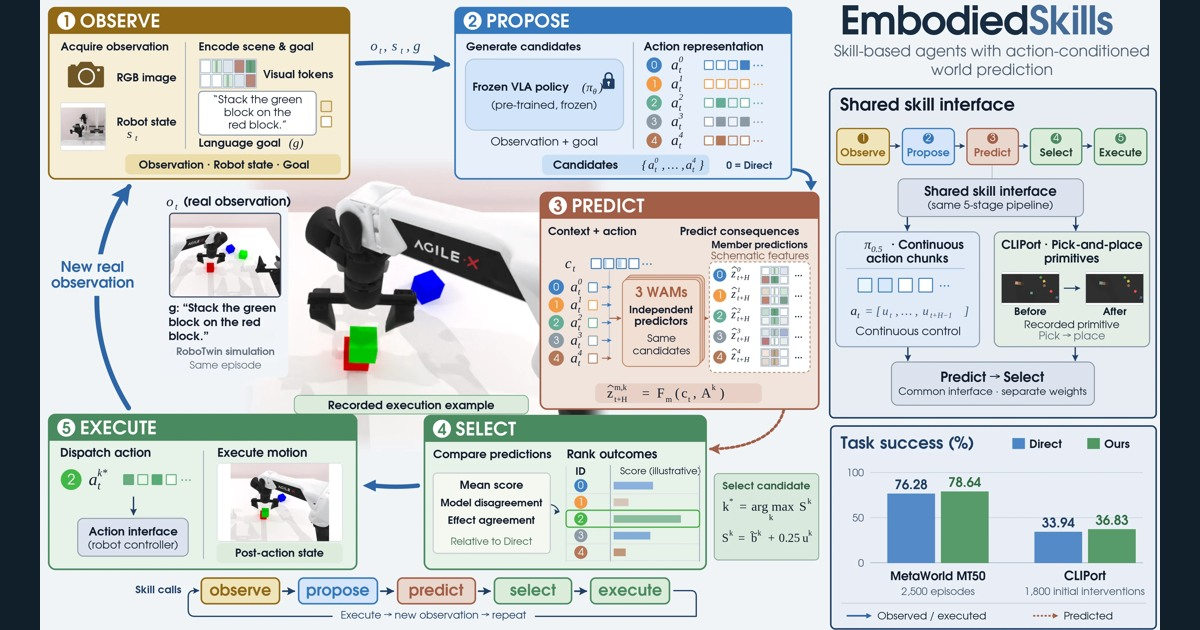
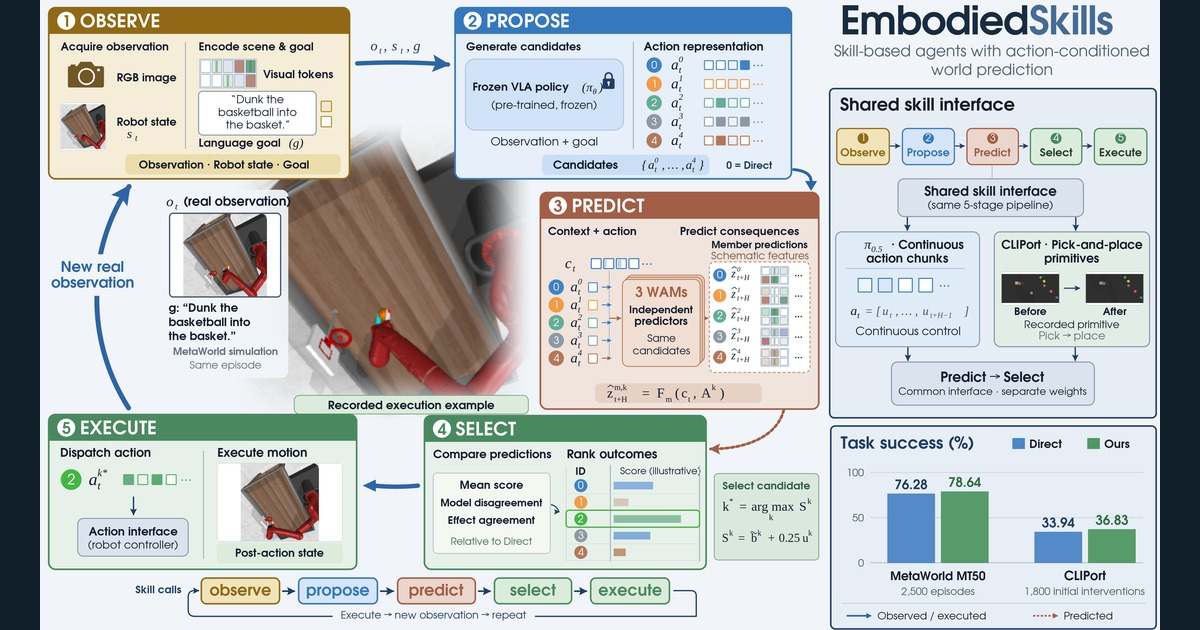
Use evaluated MetaWorld scenes in paper and website visuals

diff --git a/index.html b/index.html
@@ -9,12 +9,12 @@
   <meta property="og:description" content="World Action Model-augmented Cascaded Skills for Vision-Language-Action Agent.">
   <meta property="og:type" content="website">
   <meta property="og:url" content="https://zju4embodiedai.github.io/EmbodiedSkills/">
-  <meta property="og:image" content="https://zju4embodiedai.github.io/EmbodiedSkills/assets/social.jpg">
+  <meta property="og:image" content="https://zju4embodiedai.github.io/EmbodiedSkills/assets/social.jpg?v=20261009">
   <meta name="twitter:card" content="summary_large_image">
   <link rel="canonical" href="https://zju4embodiedai.github.io/EmbodiedSkills/">
   <link rel="icon" type="image/svg+xml" href="assets/mark.svg">
   <link rel="preload" href="assets/fonts/manrope.woff2" as="font" type="font/woff2" crossorigin>
-  <link rel="preload" href="assets/robot-hero.webp" as="image">
+  <link rel="preload" href="assets/metaworld-hero.webp" as="image">
   <link rel="stylesheet" href="style.css">
   <title>EmbodiedSkills — Anticipate. Compare. Act.</title>
   <script>document.documentElement.classList.add('js');</script>
@@ -29,7 +29,7 @@
 </header>
 <main>
 <section class="hero dark" id="top" aria-labelledby="hero-title">
-  <div class="hero-photo" aria-hidden="true"><img src="assets/robot-hero.webp" width="660" height="540" alt="" fetchpriority="high"><div class="hero-photo-shade"></div></div>
+  <div class="hero-photo" aria-hidden="true"><img src="assets/metaworld-hero.webp" width="256" height="256" alt="" fetchpriority="high"><div class="hero-photo-shade"></div></div>
   <canvas id="hero-canvas" aria-hidden="true"></canvas>
   <div class="hero-grid" aria-hidden="true"></div>
   <div class="hero-content">
@@ -37,7 +37,7 @@
     <h1 id="hero-title" class="hero-enter">Embodied<span>Skills</span><sup>↗</sup></h1>
     <div class="hero-copy hero-enter"><h2>Before the action,<br>consider the <em>consequence.</em></h2><p>World Action Model-augmented Cascaded Skills<br class="desktop-break"> for Vision-Language-Action Agent</p><div class="hero-links"><a class="button button-light" href="https://arxiv.org/abs/2609.01281" target="_blank" rel="noopener">Read the paper <span>↗</span></a><a class="text-link" href="https://github.com/ZJU4EmbodiedAI/EmbodiedSkills" target="_blank" rel="noopener">Explore the code <span>↗</span></a></div></div>
     <div class="hero-annotation" aria-hidden="true"><span class="target-bracket"></span><span>ACTION → CONSEQUENCE<br><b>Predict before execution.</b></span></div>
-    <div class="hero-bottom hero-enter"><a href="#overview" class="scroll-cue"><span class="scroll-line"></span>SCROLL TO DISCOVER</a><p>Recorded robot simulation.<br>Animated paths illustrate the method.</p><span class="hero-index">01 — 05 <i></i> A CONTINUOUS LOOP</span></div>
+    <div class="hero-bottom hero-enter"><a href="#overview" class="scroll-cue"><span class="scroll-line"></span>SCROLL TO DISCOVER</a><p>Recorded MetaWorld simulation.<br>Animated paths illustrate the method.</p><span class="hero-index">01 — 05 <i></i> A CONTINUOUS LOOP</span></div>
   </div>
 </section>
 
@@ -58,7 +58,7 @@
         <circle cx="325" cy="306" r="178" class="inner-orbit"/>
         <path class="spoke" d="M325.000 128.000L325.000 93.000 M494.288 250.995L527.575 240.179 M429.626 450.005L450.198 478.321 M220.374 450.005L199.802 478.321 M155.712 250.995L122.425 240.179"/>
       </svg>
-      <div class="loop-core"><span class="micro" id="loop-core-label">CURRENT OBSERVATION</span><div class="loop-image"><img id="loop-image" src="assets/robot-before.webp" width="256" height="256" alt="Recorded robot observation illustrating the observe stage"><div class="latent-grid" aria-hidden="true"></div><div class="scan-line" aria-hidden="true"></div></div><p id="loop-core-caption">Scene + instruction + state</p><span class="core-bottom">FROZEN POLICY · LEARNED CONSEQUENCES</span></div>
+      <div class="loop-core"><span class="micro" id="loop-core-label">CURRENT OBSERVATION</span><div class="loop-image"><img id="loop-image" src="assets/metaworld-before.webp" width="256" height="256" alt="Recorded MetaWorld basketball observation illustrating the observe stage"><div class="latent-grid" aria-hidden="true"></div><div class="scan-line" aria-hidden="true"></div></div><p id="loop-core-caption">Scene + instruction + state</p><span class="core-bottom">FROZEN POLICY · LEARNED CONSEQUENCES</span></div>
       <div class="stage-tabs" role="tablist" aria-label="Stages of the decision loop">
         <button class="stage-node active" id="stage-0" role="tab" aria-selected="true" aria-controls="stage-description" data-stage="0"><span>01</span><b>Observe</b></button>
         <button class="stage-node" id="stage-1" role="tab" aria-selected="false" aria-controls="stage-description" tabindex="-1" data-stage="1"><span>02</span><b>Propose</b></button>
@@ -120,8 +120,8 @@
 <section class="architecture section-pad" id="architecture">
   <div class="section-label reveal"><span>08 / THE COMPLETE PICTURE</span><span>OPEN THE FIGURES TO EXPLORE</span></div>
   <div class="section-heading reveal"><h2>One cascade.<br><em>Composable skills.</em></h2><p>Defined inputs and outputs keep policy proposals, predicted effects and executed actions connected across backends.</p></div>
-  <button class="figure-button architecture-figure reveal" data-figure="assets/architecture.webp" data-caption="EmbodiedSkills architecture: the five-stage loop, action-conditioned latent prediction, consequence agreement and branch-supervised learning."><img src="assets/architecture.webp" width="2048" height="1219" alt="Detailed EmbodiedSkills architecture from the paper" loading="lazy"><span class="figure-open">EXPAND ARCHITECTURE <span>↗</span></span></button>
-  <div class="figure-pair"><button class="figure-button reveal" data-figure="assets/teaser.webp" data-caption="EmbodiedSkills overview. Robot imagery illustrates recorded execution; candidate paths and latent displays are schematic."><span class="micro">THE SYSTEM OVERVIEW</span><img src="assets/teaser.webp" width="3840" height="2160" alt="EmbodiedSkills paper teaser" loading="lazy"><span class="figure-open">View overview ↗</span></button><button class="figure-button reveal" data-figure="assets/consequences.webp" data-caption="Predicted and observed latent changes in held-out CLIPort transitions, with spatial error visualizations."><span class="micro">PREDICTED & OBSERVED EFFECTS</span><img src="assets/consequences.webp" alt="Predicted latent changes compared with observed changes" loading="lazy"><span class="figure-open">Inspect consequences ↗</span></button></div>
+  <button class="figure-button architecture-figure reveal" data-figure="assets/architecture.webp?v=20261009" data-caption="EmbodiedSkills architecture: the five-stage loop, action-conditioned latent prediction, consequence agreement and branch-supervised learning."><img src="assets/architecture.webp?v=20261009" width="2048" height="1219" alt="Detailed EmbodiedSkills architecture from the paper" loading="lazy"><span class="figure-open">EXPAND ARCHITECTURE <span>↗</span></span></button>
+  <div class="figure-pair"><button class="figure-button reveal" data-figure="assets/teaser.webp?v=20261009" data-caption="EmbodiedSkills overview. Robot imagery shows a recorded MetaWorld basketball episode; candidate paths and latent displays are schematic."><span class="micro">THE SYSTEM OVERVIEW</span><img src="assets/teaser.webp?v=20261009" width="3840" height="2160" alt="EmbodiedSkills paper teaser" loading="lazy"><span class="figure-open">View overview ↗</span></button><button class="figure-button reveal" data-figure="assets/consequences.webp" data-caption="Predicted and observed latent changes in held-out CLIPort transitions, with spatial error visualizations."><span class="micro">PREDICTED & OBSERVED EFFECTS</span><img src="assets/consequences.webp" alt="Predicted latent changes compared with observed changes" loading="lazy"><span class="figure-open">Inspect consequences ↗</span></button></div>
 </section>
 
 <section class="research section-pad" id="research">
@@ -146,6 +146,6 @@
 <dialog id="figure-dialog" aria-labelledby="figure-caption"><div class="dialog-toolbar"><span>EMBODIEDSKILLS / RESEARCH FIGURE</span><button id="close-figure" class="small-button">Close <span>×</span></button></div><div class="dialog-image-wrap"><img id="dialog-image" alt=""></div><p id="figure-caption"></p></dialog>
 <div class="toast" role="status" aria-live="polite"></div>
 <noscript><p class="noscript-note">Interactive figures and replay controls require JavaScript. The paper, architecture, results table and resources are available below.</p></noscript>
-<script type="module" src="app.js"></script>
+<script type="module" src="app.js?v=20261009"></script>
 </body>
 </html>

diff --git a/app.js b/app.js
@@ -164,11 +164,11 @@ $('#top').addEventListener('pointermove', event => {
 }, { passive: true });
 
 const stages = [
-  { name:'Observe', title:'Make the present<br>machine-readable.', copy:'Frozen visual and language encoders turn the current scene and instruction into a shared context, alongside observable state and elapsed progress.', skills:'Scene observation · Context encoding', output:'Visual tokens + goal embedding + state', label:'CURRENT OBSERVATION', caption:'Scene + instruction + state', color:'#bf9742', image:'assets/robot-before.webp' },
-  { name:'Propose', title:'Keep the policy.<br>Explore its possibilities.', copy:'The frozen policy produces five candidate actions. Its direct proposal remains candidate zero; alternatives retain the backend’s native action representation.', skills:'Candidate generation · Action packaging', output:'Five executable proposals, including the direct action', label:'POLICY PROPOSALS', caption:'A₀ · A₁ · A₂ · A₃ · A₄', color:'#367db7', image:'assets/robot-before.webp' },
-  { name:'Predict', title:'Anticipate what<br>each action changes.', copy:'Three independently trained world action models estimate action-conditioned latent effects and outcomes. They share frozen pretrained visual and language features.', skills:'Latent consequence prediction · Outcome evaluation', output:'Predicted effects + three outcome estimates', label:'LATENT CONSEQUENCES', caption:'Three independent views of each action', color:'#b86c50', image:'assets/robot-before.webp' },
-  { name:'Select', title:'Compare the effect.<br>Choose the action.', copy:'The comparison head uses predicted consequences and agreement between models to estimate the benefit and risk of replacing the direct proposal. The highest-scoring original candidate is selected.', skills:'Consequence comparison · Candidate selection', output:'One candidate identity, preserved for execution', label:'COMPARATIVE DECISION', caption:'Expected outcome + consequence agreement', color:'#478967', image:'assets/robot-before.webp' },
-  { name:'Execute', title:'Let the world<br>answer back.', copy:'The backend executes the selected action or bounded action chunk. Its new observation closes the loop and supplies the starting point for the next decision.', skills:'Native action execution · Observation refresh', output:'Executed action → fresh observation', label:'NEXT OBSERVATION', caption:'The consequence becomes the next input', color:'#367db7', image:'assets/robot-after.webp' }
+  { name:'Observe', title:'Make the present<br>machine-readable.', copy:'Frozen visual and language encoders turn the current scene and instruction into a shared context, alongside observable state and elapsed progress.', skills:'Scene observation · Context encoding', output:'Visual tokens + goal embedding + state', label:'CURRENT OBSERVATION', caption:'Scene + instruction + state', color:'#bf9742', image:'assets/metaworld-before.webp' },
+  { name:'Propose', title:'Keep the policy.<br>Explore its possibilities.', copy:'The frozen policy produces five candidate actions. Its direct proposal remains candidate zero; alternatives retain the backend’s native action representation.', skills:'Candidate generation · Action packaging', output:'Five executable proposals, including the direct action', label:'POLICY PROPOSALS', caption:'A₀ · A₁ · A₂ · A₃ · A₄', color:'#367db7', image:'assets/metaworld-before.webp' },
+  { name:'Predict', title:'Anticipate what<br>each action changes.', copy:'Three independently trained world action models estimate action-conditioned latent effects and outcomes. They share frozen pretrained visual and language features.', skills:'Latent consequence prediction · Outcome evaluation', output:'Predicted effects + three outcome estimates', label:'LATENT CONSEQUENCES', caption:'Three independent views of each action', color:'#b86c50', image:'assets/metaworld-before.webp' },
+  { name:'Select', title:'Compare the effect.<br>Choose the action.', copy:'The comparison head uses predicted consequences and agreement between models to estimate the benefit and risk of replacing the direct proposal. The highest-scoring original candidate is selected.', skills:'Consequence comparison · Candidate selection', output:'One candidate identity, preserved for execution', label:'COMPARATIVE DECISION', caption:'Expected outcome + consequence agreement', color:'#478967', image:'assets/metaworld-before.webp' },
+  { name:'Execute', title:'Let the world<br>answer back.', copy:'The backend executes the selected action or bounded action chunk. Its new observation closes the loop and supplies the starting point for the next decision.', skills:'Native action execution · Observation refresh', output:'Executed action → fresh observation', label:'NEXT OBSERVATION', caption:'The consequence becomes the next input', color:'#367db7', image:'assets/metaworld-after.webp' }
 ];
 const stageButtons = $$('.stage-node');
 function showStage(index) {
@@ -186,7 +186,7 @@ function showStage(index) {
   $('#loop-core-label').textContent = stage.label;
   $('#loop-core-caption').textContent = stage.caption;
   $('#loop-image').src = stage.image;
-  $('#loop-image').alt = `Recorded robot observation in an illustration of the ${stage.name.toLowerCase()} stage`;
+  $('#loop-image').alt = `Recorded MetaWorld basketball observation in an illustration of the ${stage.name.toLowerCase()} stage`;
   $('.stage-progress span').style.width = `${(index + 1) * 20}%`;
   refreshEntrance($('#stage-description'));
 }
